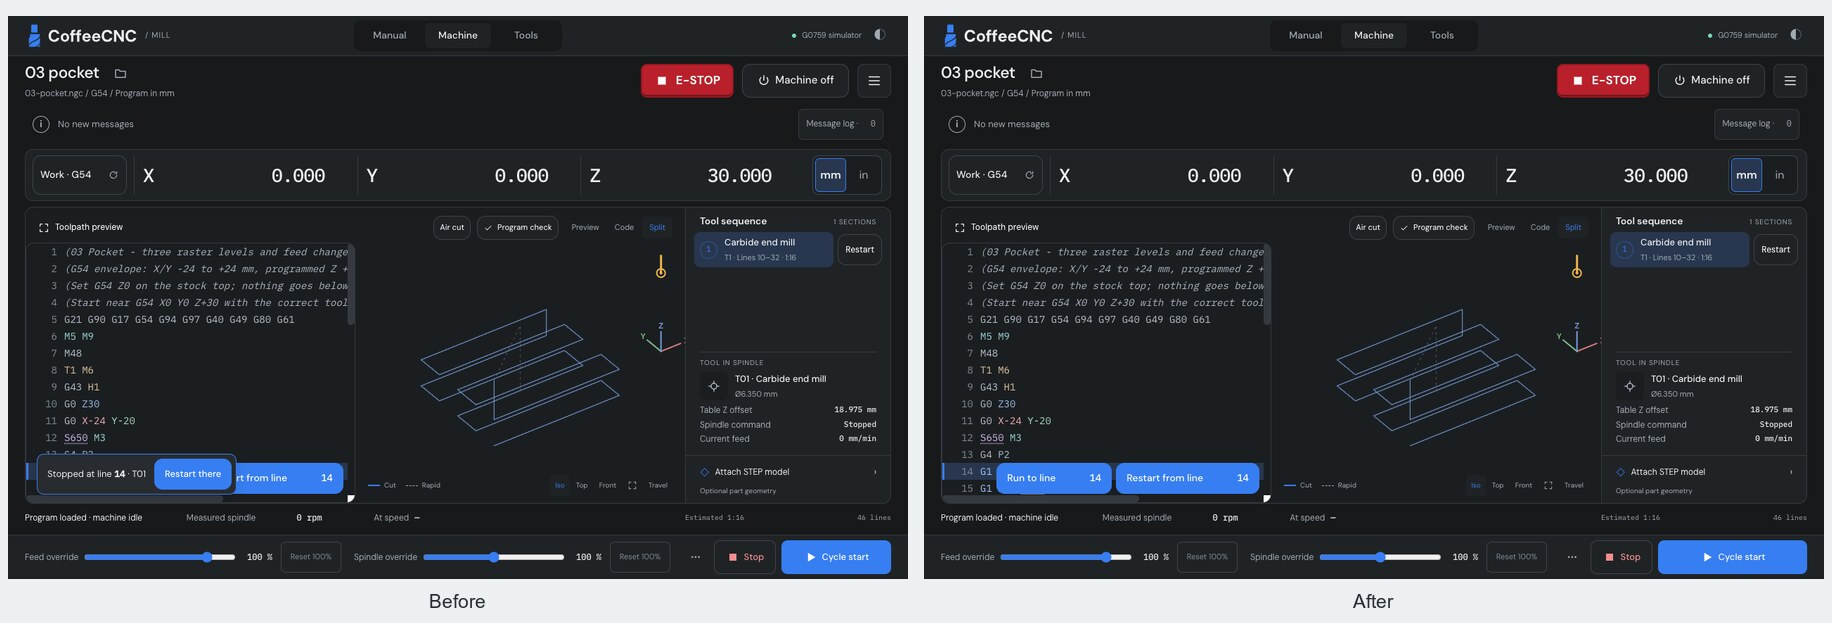
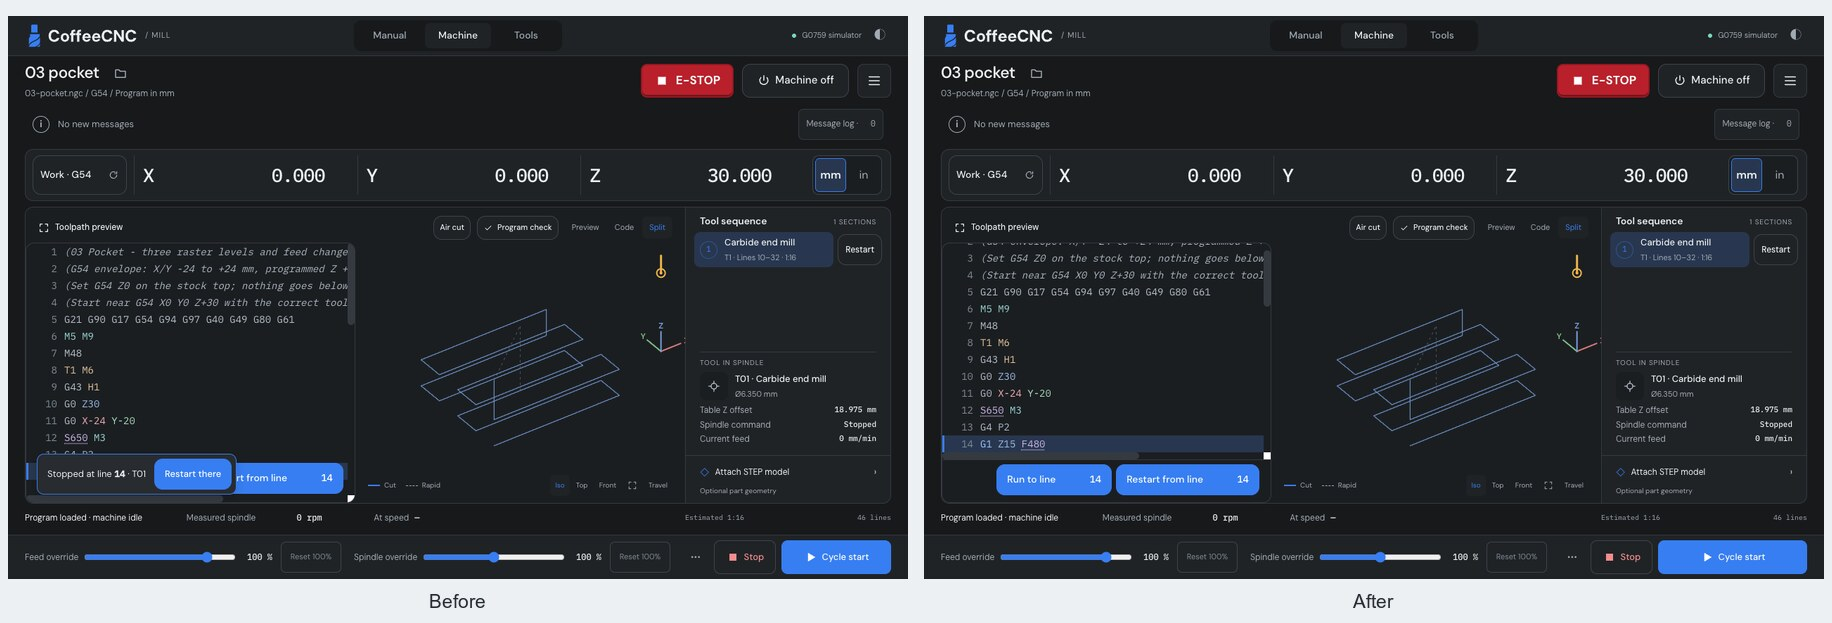
Keep the selected code row above the line actions

Changed region(s): [[0.4978, 0.3965, 0.7156, 0.8234]]

diff --git a/ui/src/components/NcText.vue b/ui/src/components/NcText.vue
@@ -129,7 +129,7 @@ watch(active, (line, before) => {
     // A new run starts in view.
     follow.value = true
   }
-  if (follow.value) {
+  if (follow.value && picked.value === 0) {
     show(line)
   }
 })
@@ -150,12 +150,21 @@ watch(
 )
 
 function updateViewport(): void {
-  if (scroller.value === null) return
-  viewHeight.value = scroller.value.clientHeight
-  if (follow.value) show(active.value)
+  const element = scroller.value
+  if (element === null) return
+  viewHeight.value = element.clientHeight
+  if (picked.value > 0) {
+    const top = (picked.value - 1) * rowHeight
+    const bottom = top + rowHeight
+    // Scroll just enough to keep the row visible when the action bar takes space.
+    const target = Math.min(top, Math.max(element.scrollTop, bottom - viewHeight.value))
+    if (element.scrollTop !== target) element.scrollTop = target
+    onScroll()
+  } else if (follow.value) show(active.value)
 }
 
 watch(codeWidth, updateViewport, { flush: 'post' })
+watch(picked, updateViewport, { flush: 'post' })
 
 let observer: ResizeObserver | null = null
 
@@ -238,6 +247,8 @@ onBeforeUnmount(() => {
 <style scoped>
 .nc {
   position: relative;
+  display: flex;
+  flex-direction: column;
   min-width: 0;
   min-height: 0;
   border: 1px solid var(--line);
@@ -247,7 +258,8 @@ onBeforeUnmount(() => {
 }
 
 .scroller {
-  height: 100%;
+  flex: 1;
+  min-height: 0;
   overflow: auto;
   outline: none;
   overflow-anchor: none;
@@ -337,13 +349,13 @@ onBeforeUnmount(() => {
 }
 
 .line-actions {
-  position: absolute;
-  right: 16px;
-  bottom: 12px;
   display: flex;
+  flex: none;
   flex-wrap: wrap;
   justify-content: flex-end;
   gap: 6px;
+  padding: 6px 16px 10px;
+  border-top: 1px solid var(--line);
 }
 .row.breakpoint { background: var(--warn-soft); box-shadow: inset 3px 0 0 var(--warn); }
 .row.breakpoint .number { color: var(--warn); }

diff --git a/ui/test/nc-text.test.ts b/ui/test/nc-text.test.ts
@@ -56,3 +56,28 @@ it('keeps the full code width and bottom scroll position while following virtual
   expect(scroller.element.scrollTop).toBe(bottom)
   expect(setTop).not.toHaveBeenCalled()
 })
+
+it('scrolls the last picked row above the line actions', async () => {
+  const lines = [...Array<string>(39).fill('G1 X5 F500'), 'M30']
+  const contentHeight = lines.length * 24
+  const clientHeight = vi.spyOn(Element.prototype, 'clientHeight', 'get').mockReturnValue(245)
+  vi.spyOn(Element.prototype, 'scrollHeight', 'get').mockReturnValue(contentHeight)
+  vi.spyOn(HTMLCanvasElement.prototype, 'getContext').mockReturnValue(null)
+  Object.defineProperty(document, 'fonts', { configurable: true, value: { ready: Promise.resolve() } })
+  vi.stubGlobal('ResizeObserver', class {
+    observe(): void { /* The viewport size is supplied by the test. */ }
+    disconnect(): void { /* No observer was scheduled. */ }
+  })
+
+  const pane = mount(NcText, { props: { lines, motionLine: 0, currentLine: 0, errorLine: 0, restartable: true } })
+  wrapper = pane
+  const scroller = pane.get<HTMLElement>('.scroller')
+  scroller.element.scrollTop = contentHeight - 245
+  await scroller.trigger('scroll')
+
+  clientHeight.mockReturnValue(185)
+  await pane.get('.row:last-child .number').trigger('click')
+  expect(pane.get('.row.picked .text').text()).toBe('M30')
+  expect(pane.get('.line-actions').text()).toContain('Restart from line 40')
+  expect(scroller.element.scrollTop + scroller.element.clientHeight).toBe(contentHeight)
+})
